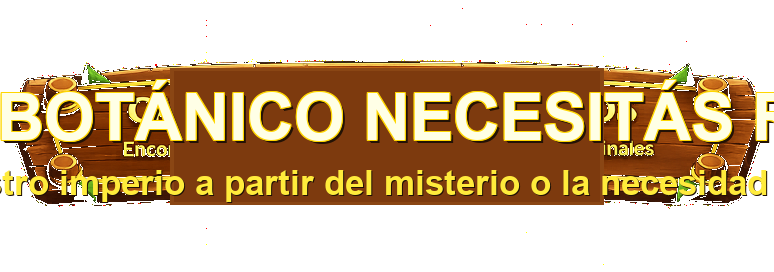
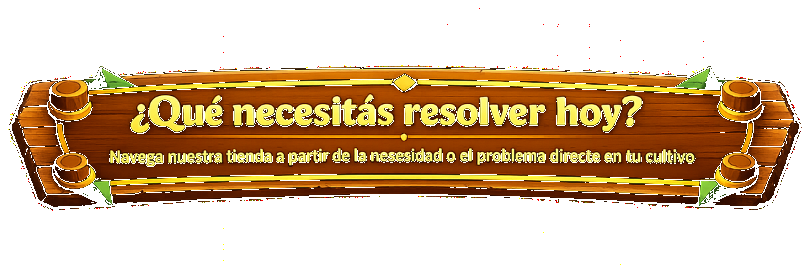
feat: colocar la imagen exacta del cartel de madera adjuntado para la seccion Que necesitas resolver hoy

diff --git a/src/index.css b/src/index.css
@@ -199,6 +199,68 @@ button, input, select, textarea {
   }
 }
 
+/* User Wooden Signboard Live Text Container */
+.user-wooden-signboard-container {
+  position: relative;
+  margin: 16px auto 20px auto;
+  width: 100%;
+  max-width: 900px;
+  aspect-ratio: 774 / 272;
+  background: url('/home/clean-wooden-signboard.png') no-repeat center center;
+  background-size: 100% 100%;
+  display: flex;
+  flex-direction: column;
+  align-items: center;
+  justify-content: center;
+  padding: 0 16%;
+  text-align: center;
+  filter: drop-shadow(0 10px 20px rgba(0, 0, 0, 0.65));
+}
+
+.user-wooden-signboard-title {
+  font-size: 1.8rem;
+  font-family: var(--font-title);
+  font-weight: 900;
+  color: #ffffff;
+  letter-spacing: 0.02em;
+  text-transform: uppercase;
+  text-shadow: 
+    0 2px 0 #3d1f0d, 
+    0 -2px 0 #3d1f0d, 
+    2px 0 0 #3d1f0d, 
+    -2px 0 0 #3d1f0d,
+    0 0 15px rgba(255, 214, 0, 0.5),
+    0 3px 8px rgba(0, 0, 0, 0.9);
+  margin: 0 0 4px 0;
+  line-height: 1.15;
+}
+
+.user-wooden-signboard-subtitle {
+  color: #ffd600;
+  font-size: 0.95rem;
+  font-weight: 700;
+  line-height: 1.3;
+  text-shadow: 
+    0 1px 0 #3d1f0d, 
+    0 -1px 0 #3d1f0d, 
+    1px 0 0 #3d1f0d, 
+    -1px 0 0 #3d1f0d,
+    0 2px 6px rgba(0, 0, 0, 0.9);
+  margin: 0;
+}
+
+@media (max-width: 768px) {
+  .user-wooden-signboard-container {
+    padding: 0 10%;
+  }
+  .user-wooden-signboard-title {
+    font-size: 1.1rem;
+  }
+  .user-wooden-signboard-subtitle {
+    font-size: 0.75rem;
+  }
+}
+
 /* Hero Video Section Full Width & Height */
 .hero-video-section {
   position: relative;

diff --git a/src/pages/Home.tsx b/src/pages/Home.tsx
@@ -154,7 +154,7 @@ export const Home: React.FC = () => {
       {/* 3. RESOLVE PROBLEMS SECTION */}
       <section className="container">
         <div className="imperial-wooden-banner-container">
-          <img src="/home/banner-resolver-signboard.png" alt="¿Qué misterio botánico necesitás resolver hoy?" className="imperial-wooden-banner" />
+          <img src="/home/banner-resolver-signboard.png" alt="¿Qué necesitás resolver hoy?" className="imperial-wooden-banner" />
         </div>
         <div className="grid grid-cols-3">
           {[